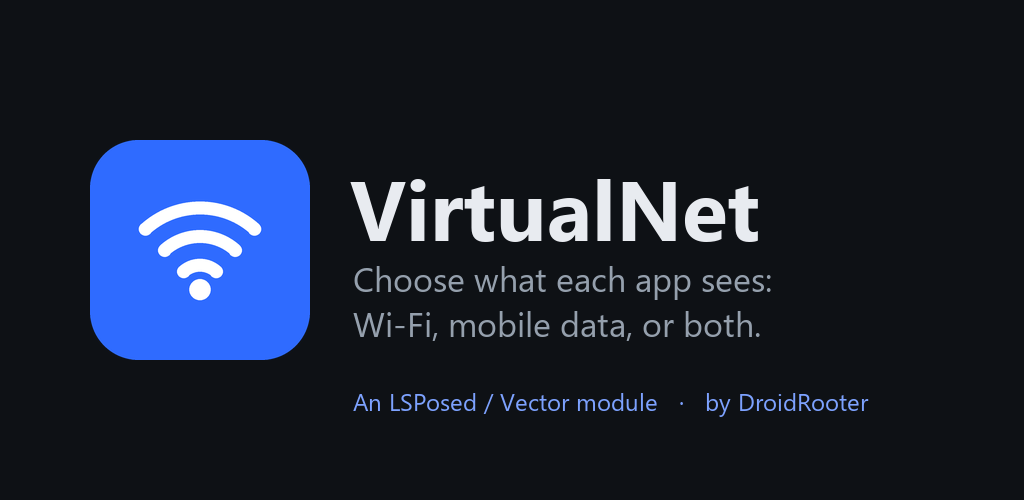
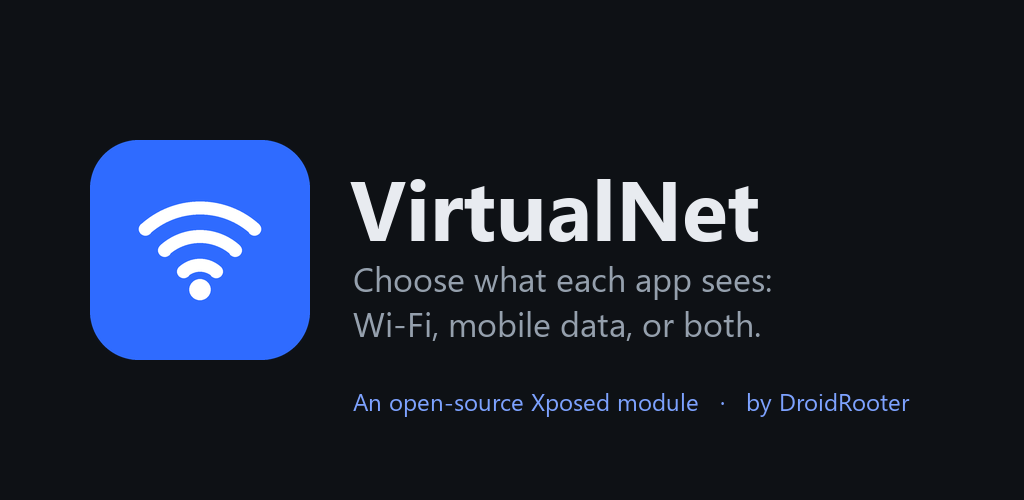
Describe VirtualNet as an Xposed module; version 1.0.2 (first public release)

Changed region(s): [[0.375, 0.78, 0.875, 0.84]]

diff --git a/app/src/main/kotlin/com/droidrooter/virtualnet/ui/AboutActivity.kt b/app/src/main/kotlin/com/droidrooter/virtualnet/ui/AboutActivity.kt
@@ -36,7 +36,7 @@ class AboutActivity : Activity() {
         }
         body.addView(logo, LinearLayout.LayoutParams(dp(84), dp(84)).apply { gravity = Gravity.CENTER_HORIZONTAL })
         body.addView(label("VirtualNet", 26f, medium = true).apply { gravity = Gravity.CENTER }, lp(top = 14))
-        body.addView(label("Per-app network spoofing for LSPosed", 14f, R.color.vn_muted).apply { gravity = Gravity.CENTER }, lp(top = 6))
+        body.addView(label("Per-app network spoofing, an Xposed module", 14f, R.color.vn_muted).apply { gravity = Gravity.CENTER }, lp(top = 6))
 
         body.addView(card().apply {
             addView(label("A project of", 12f, R.color.vn_muted, true))

diff --git a/CHANGELOG.md b/CHANGELOG.md
@@ -1,13 +1,8 @@
 # Changelog
 
-## 1.0.1
+## 1.0.2
 
-- Build changes for F-Droid: dependency metadata block removed from the APK, wrapper checksum pinned.
-- No behaviour changes.
-
-## 1.0.0
-
-First release.
+First public release.
 
 - Per-app Wi-Fi, Data, Both or Off, applied live with no reboot.
 - System framework layer (connectivity, Wi-Fi and phone services) gated by caller uid.
@@ -16,4 +11,4 @@ First release.
 - One editable network profile so every answer stays consistent.
 - Stand-in cellular network in Both mode.
 - Android 9 to 17 supported. Android 10 to 17 verified. Android 9 is unverified.
-- VirtualNet Lab detector app.
+- Reproducible build for F-Droid: no dependency metadata block or VCS info in the APK, LF line endings, pinned Gradle wrapper checksum.

diff --git a/README.md b/README.md
@@ -6,7 +6,7 @@
 
 **Choose what each app sees: Wi-Fi, mobile data, or both.**
 
-An open-source LSPosed / Vector module for Android 9 and up, by [DroidRooter](https://droidrooter.com).
+An open-source Xposed module for Android 9 and up, by [DroidRooter](https://droidrooter.com).
 
 [![License](https://img.shields.io/github/license/saadnahid7/VirtualNet?style=for-the-badge&color=blue)](LICENSE)
 [![Release](https://img.shields.io/github/v/release/saadnahid7/VirtualNet?style=for-the-badge&color=teal)](https://github.com/saadnahid7/VirtualNet/releases/latest)
